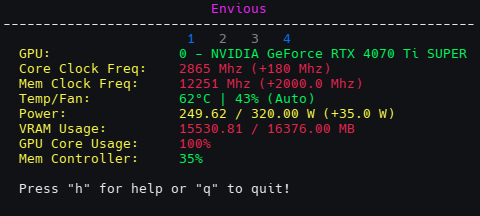
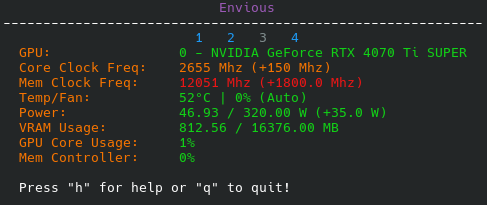
Cleanup, update screenshots and readme

diff --git a/README.md b/README.md
@@ -1,6 +1,6 @@
 <div align="center">
   <h1>Envious</h1>
-  <img src="screenshot.png?version=3" alt="Blissful Nvidia Tool" />
+  <img src="screenshot.png?version=4" alt="Envious Main View" />
 </div>
 
 Envious is a friendly, feature-rich application for administering modern Nvidia GPUs (Maxwell or higher) directly from your Linux command line. It's environment agnostic so it will work in X, Wayland, runlevel 3, etc just the same!
@@ -34,3 +34,6 @@ sudo envious --interactive
 # And also
 man envious  # For full command list!
 ```
+<div align="center">
+  <img src="pm_screenshot.png?version=1" alt="Envious Process Monitor and Extra Info" />
+</div>
